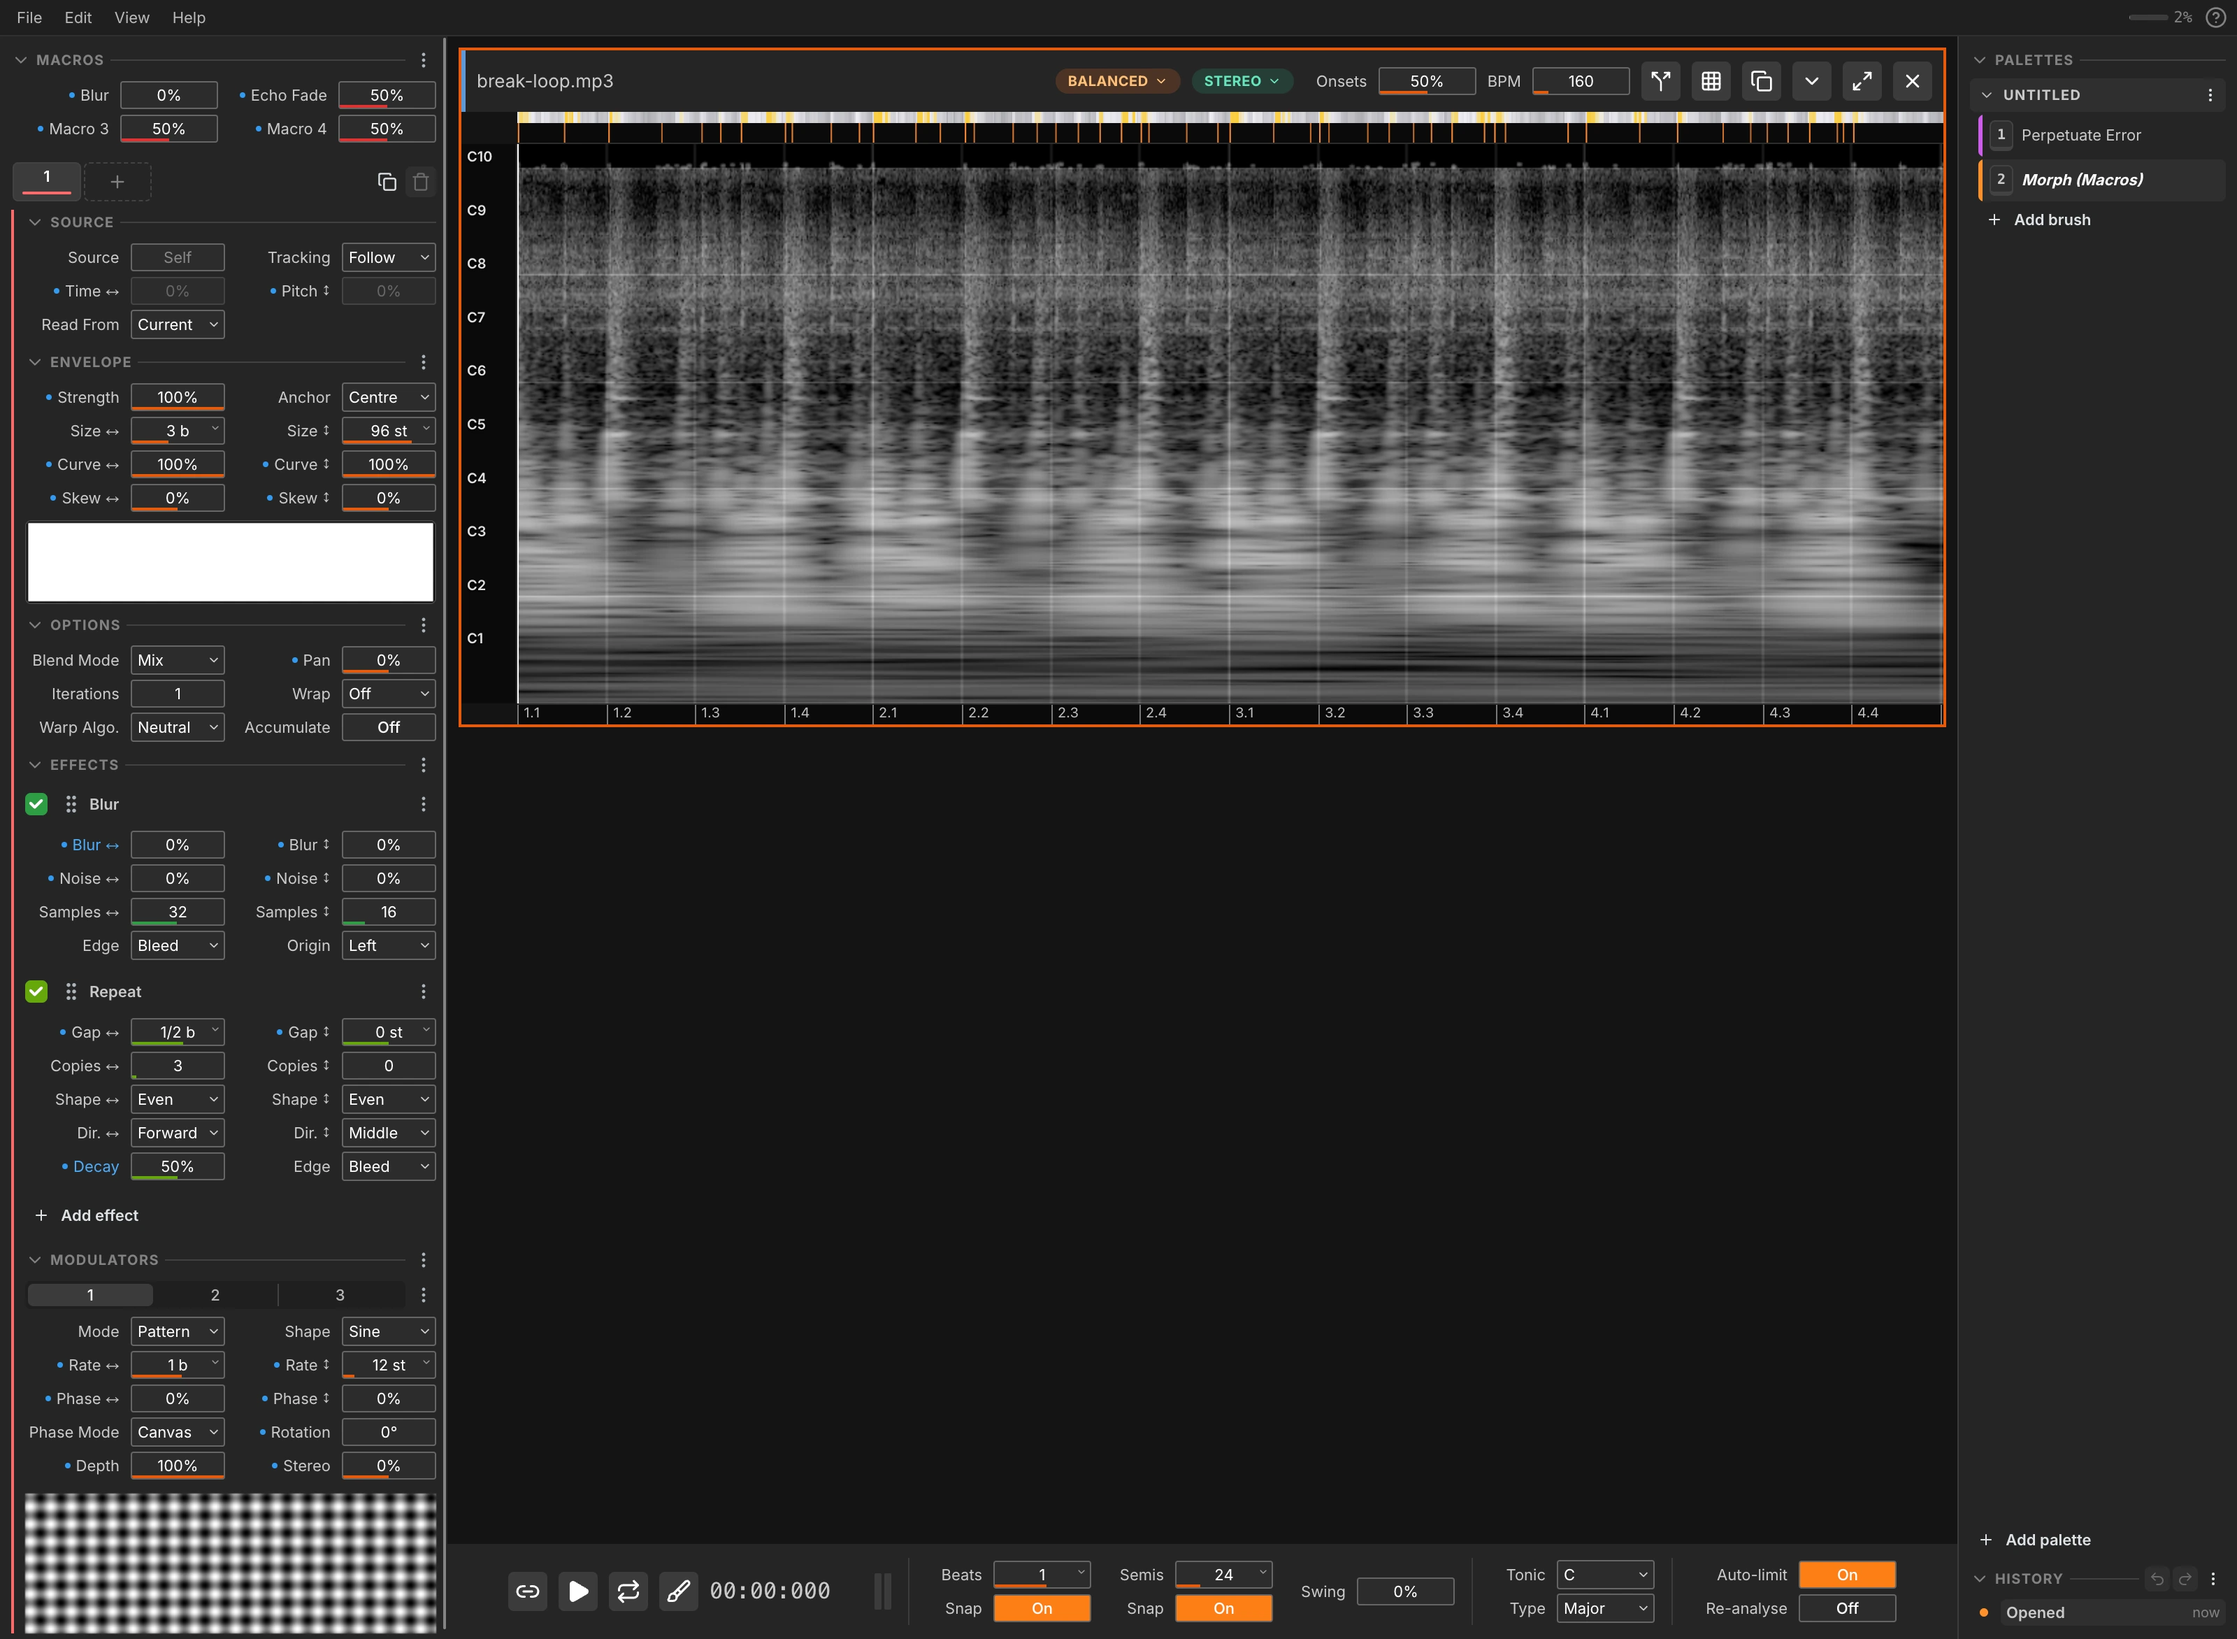
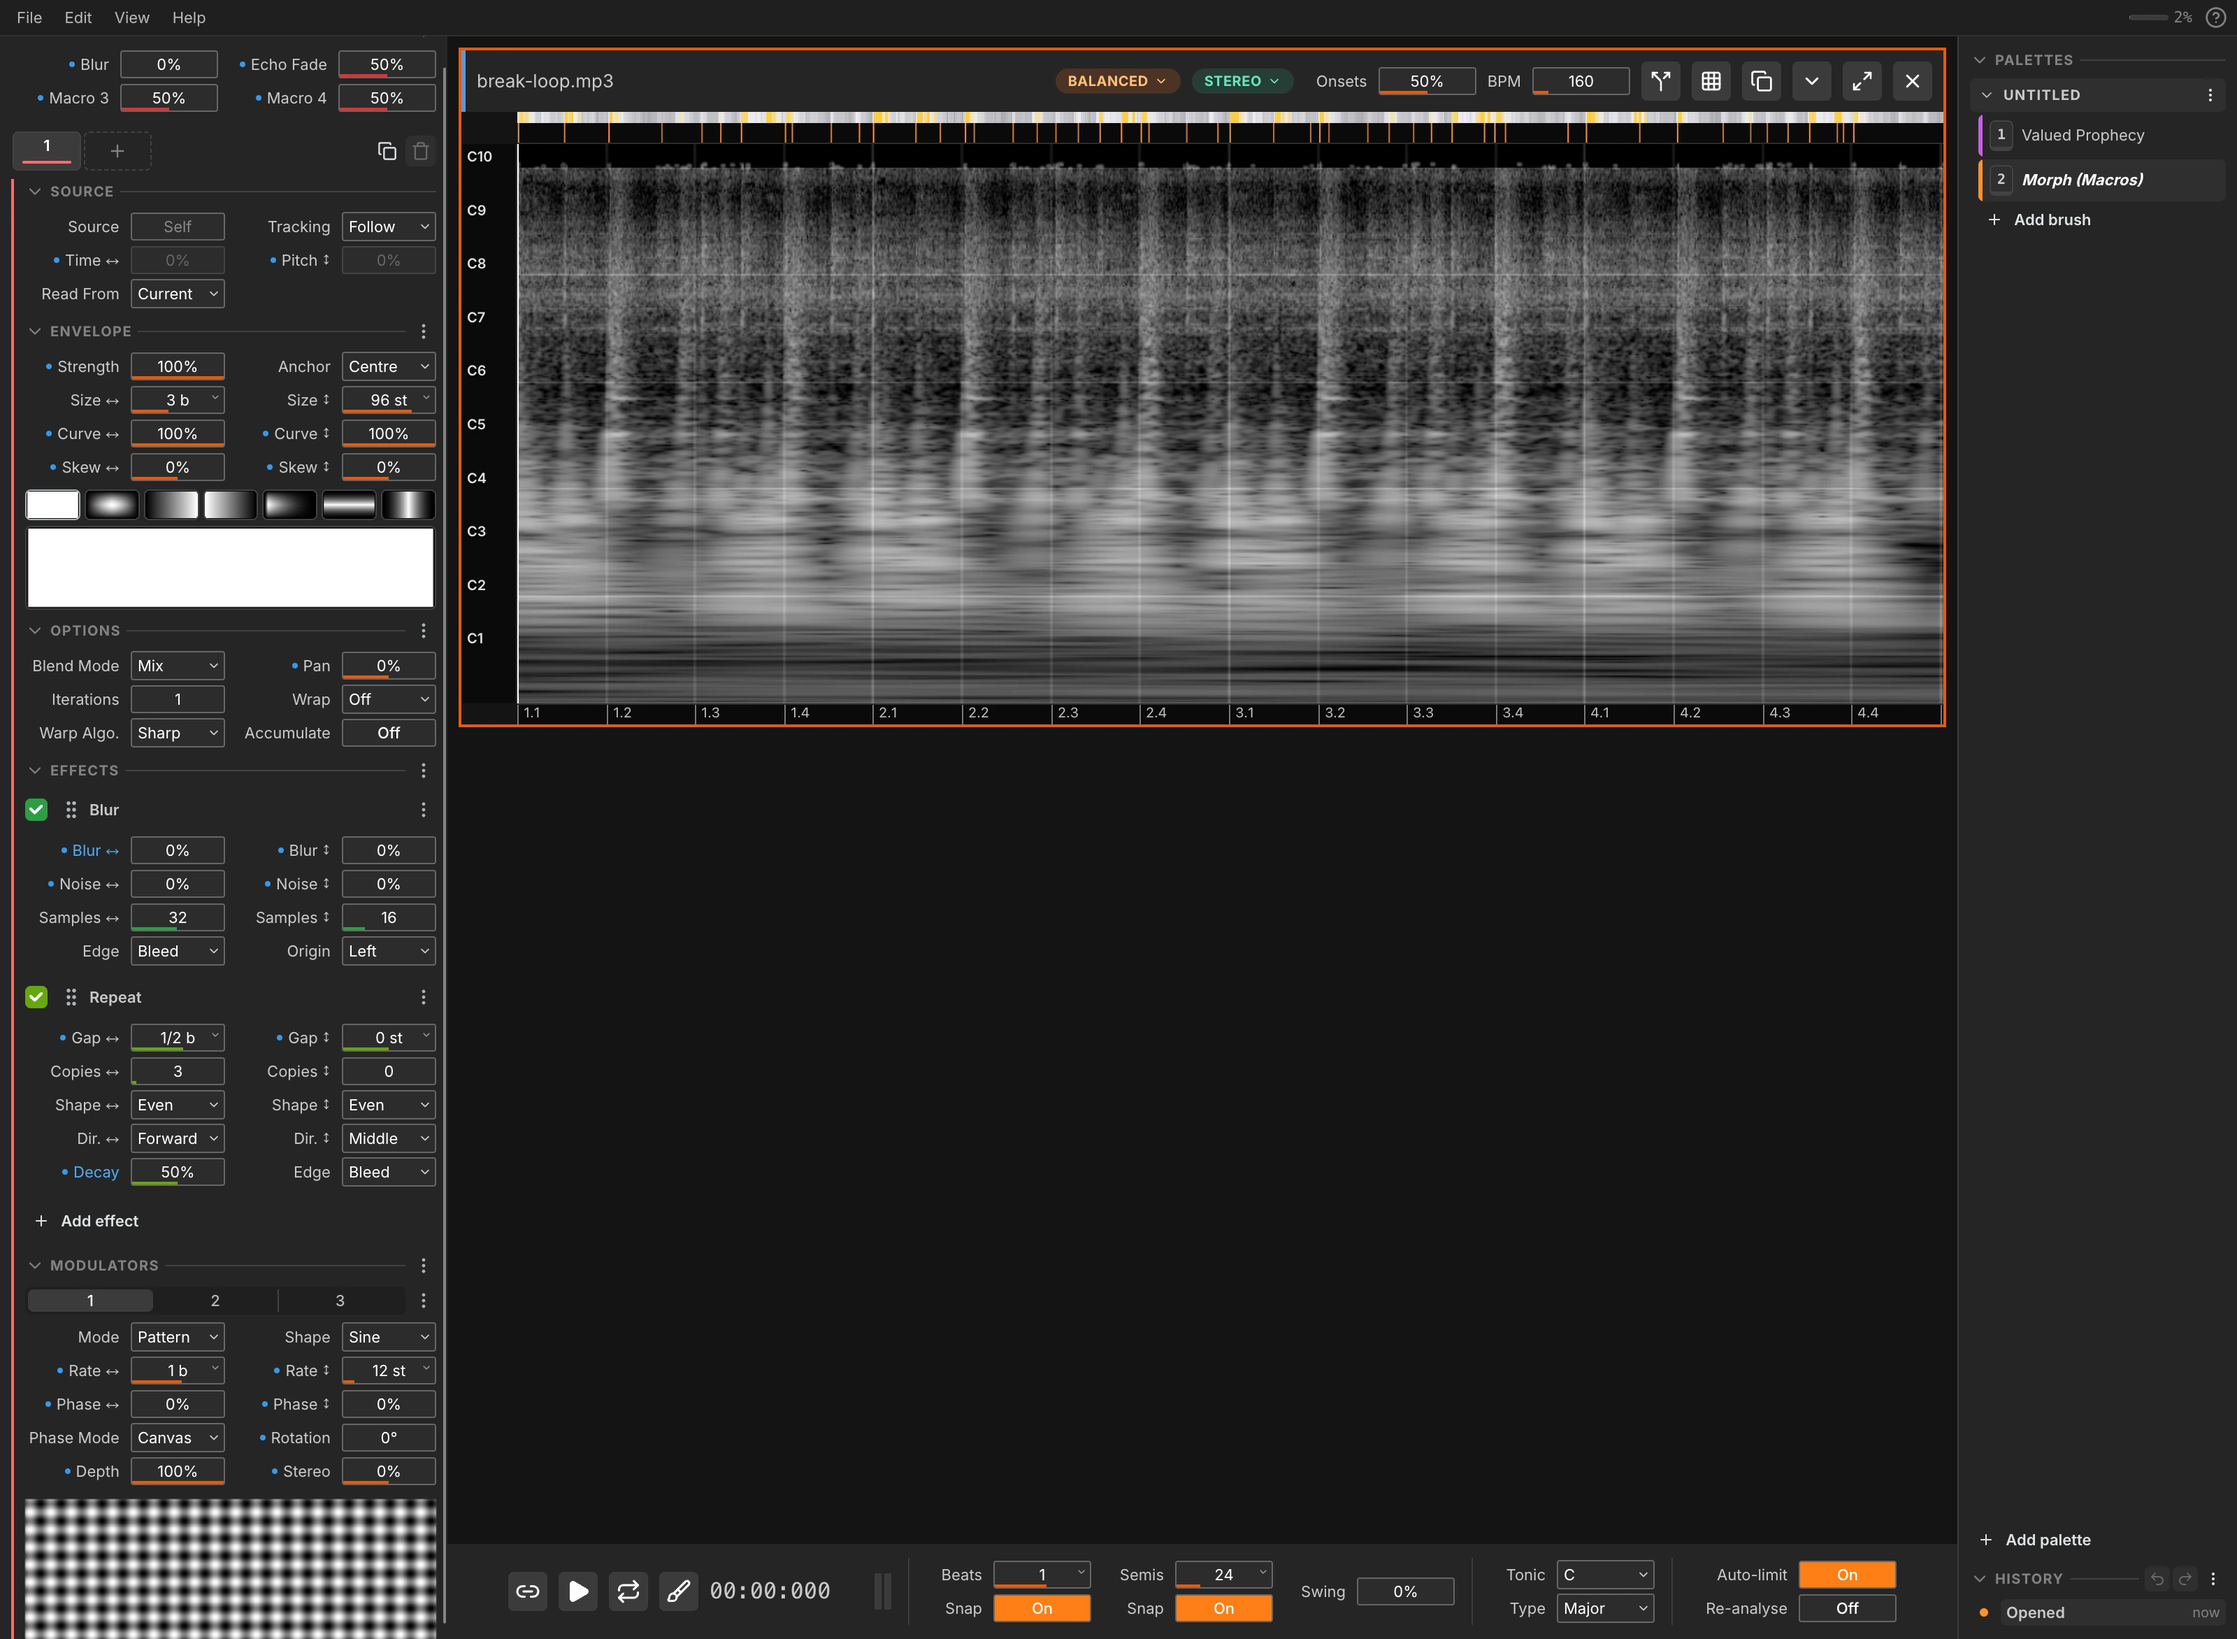
✨ (warp): name the algorithms for the sound and explain them in the picker
Neutral and Neutralish become Sharp and Soft, Percussive becomes Locked,
and the picker groups them under Natural and Coloured with a line each.

diff --git a/src/renderer/src/components/controls/select-control.tsx b/src/renderer/src/components/controls/select-control.tsx
@@ -1,7 +1,13 @@
-import { Group, Select } from "@mantine/core";
+import { Group, Select, Text } from "@mantine/core";
 import { CONTROL_ROW_GAP, CONTROL_ROW_HEIGHT, VALUE_WIDTH } from "@renderer/lib/ui-density";
-import { ChevronDown } from "lucide-react";
+import { Check, ChevronDown } from "lucide-react";
 import { ReactNode, useRef } from "react";
+
+const DESCRIBED_DROPDOWN_WIDTH = 320;
+const PLAIN_DROPDOWN_WIDTH = 120;
+const DESCRIBED_DROPDOWN_HEIGHT = 340;
+/** Tick, label and line each hold their own column so the rows read as a table. */
+const DESCRIBED_OPTION_COLUMNS = "11px 54px 1fr";
 
 export const SelectControl = <T,>({
   labelComponent,
@@ -13,7 +19,7 @@ export const SelectControl = <T,>({
 }: {
   labelComponent: ReactNode;
   value: T;
-  options: readonly { value: T; label: string }[];
+  options: readonly { value: T; label: string; group?: string; description?: string }[];
   setValue: (value: T) => void;
   labelWidth?: number | string;
   color?: string;
@@ -31,6 +37,23 @@ export const SelectControl = <T,>({
     inputRef.current?.blur();
   };
 
+  const descriptions = new Map(
+    options.filter((o) => o.description).map((o) => [String(o.value), o.description as string]),
+  );
+
+  // Options carrying a group name render as headed sections, in the order the
+  // groups first appear; ungrouped lists stay a flat item list.
+  const items = options.map((o) => ({ value: String(o.value), label: o.label }));
+  const groups: { group: string; items: typeof items }[] = [];
+  for (const option of options) {
+    if (!option.group) continue;
+    const item = { value: String(option.value), label: option.label };
+    const existing = groups.find((g) => g.group === option.group);
+    if (existing) existing.items.push(item);
+    else groups.push({ group: option.group, items: [item] });
+  }
+  const data = options.length > 0 && options.every((o) => o.group) ? groups : items;
+
   return (
     <Group gap={CONTROL_ROW_GAP} wrap="nowrap" h={CONTROL_ROW_HEIGHT}>
       {labelComponent}
@@ -45,11 +68,52 @@ export const SelectControl = <T,>({
           backgroundColor: "#2c2c2c",
         }}
         w={VALUE_WIDTH}
-        data={options.map((o) => ({ value: String(o.value), label: o.label }))}
+        data={data}
         value={String(value)}
         onChange={handleChange}
         scrollAreaProps={{ type: "always" }}
-        comboboxProps={{ width: 120, zIndex: dropdownZIndex }}
+        maxDropdownHeight={descriptions.size > 0 ? DESCRIBED_DROPDOWN_HEIGHT : undefined}
+        comboboxProps={{
+          width: descriptions.size > 0 ? DESCRIBED_DROPDOWN_WIDTH : PLAIN_DROPDOWN_WIDTH,
+          position: "bottom-start",
+          zIndex: dropdownZIndex,
+        }}
+        styles={
+          descriptions.size > 0
+            ? {
+                dropdown: { padding: 3 },
+                option: { paddingBlock: 4, paddingInline: 6, borderRadius: 2 },
+                groupLabel: {
+                  fontSize: 9,
+                  letterSpacing: "0.08em",
+                  textTransform: "uppercase",
+                  paddingInline: 6,
+                },
+              }
+            : undefined
+        }
+        renderOption={
+          descriptions.size > 0
+            ? ({ option, checked }) => (
+                <div
+                  style={{
+                    display: "grid",
+                    gridTemplateColumns: DESCRIBED_OPTION_COLUMNS,
+                    columnGap: 6,
+                    alignItems: "baseline",
+                  }}
+                >
+                  <div style={{ alignSelf: "center", lineHeight: 0 }}>{checked && <Check size={9} />}</div>
+                  <Text size="xs" style={{ lineHeight: 1.5 }}>
+                    {option.label}
+                  </Text>
+                  <Text size="xs" c="dimmed" style={{ fontSize: 10, lineHeight: 1.5 }}>
+                    {descriptions.get(option.value)}
+                  </Text>
+                </div>
+              )
+            : undefined
+        }
         rightSectionWidth={12}
         rightSection={<ChevronDown size={10} color="var(--mantine-color-text)" />}
       />

diff --git a/src/renderer/src/lib/constants.ts b/src/renderer/src/lib/constants.ts
@@ -265,11 +265,36 @@ export const NUM_CONTEXTUAL_MOD_SOURCES = CONTEXTUAL_MOD_SOURCES.length;
 export const NEUTRAL_ALGORITHM = 6;
 
 export const ALGORITHMS = [
-  { value: NEUTRAL_ALGORITHM, label: "Neutral" },
-  { value: 3, label: "Neutralish" },
-  { value: 2, label: "Percussive" },
-  { value: 0, label: "Flangey" },
-  { value: 1, label: "Noisey" },
+  {
+    value: NEUTRAL_ALGORITHM,
+    label: "Sharp",
+    group: "Natural",
+    description: "Default. Best on drums and most sounds.",
+  },
+  {
+    value: 3,
+    label: "Soft",
+    group: "Natural",
+    description: "Best on sustained, non-percussive sounds.",
+  },
+  {
+    value: 2,
+    label: "Locked",
+    group: "Coloured",
+    description: "Hard and robotic, pinned in place.",
+  },
+  {
+    value: 0,
+    label: "Flangey",
+    group: "Coloured",
+    description: "Hollow and metallic, like a comb filter.",
+  },
+  {
+    value: 1,
+    label: "Noisey",
+    group: "Coloured",
+    description: "Diffuse and breathy, edges blurred away.",
+  },
 ];
 
 const [HUE_GRAPE, HUE_RED, , HUE_GREEN, HUE_VIOLET, HUE_CYAN, HUE_PINK, HUE_ORANGE, HUE_INDIGO, HUE_TEAL] = BASE_HUES;

diff --git a/src/renderer/src/parameters.ts b/src/renderer/src/parameters.ts
@@ -75,7 +75,7 @@ export interface StringParameter extends ParameterBase {
 export interface OptionsParameter<T = any> extends ParameterBase {
   kind: "options";
   default: T;
-  options: { value: T; label: string }[];
+  options: { value: T; label: string; group?: string; description?: string }[];
 }
 
 export interface FileParameter extends ParameterBase {

diff --git a/docs/manual.md b/docs/manual.md
@@ -312,15 +312,15 @@ The brush envelope decides where the stroke deposits energy and how much.
 
 ### Warp Algorithms
 
-Moving sound in time or pitch means rebuilding it, and each option colours the result differently. Pick by ear:
+Moving sound in time or pitch means rebuilding it, and each option colours the result differently. The picker splits them in two: the **Natural** pair rebuilds the sound as it was, and the **Coloured** three rebuild it into something else. Pick by ear:
 
-| Algorithm      | Sounds like                                                | Reach for it on                                          |
-| -------------- | ---------------------------------------------------------- | -------------------------------------------------------- |
-| **Neutral**    | Clean and faithful. Attacks stay sharp, notes stay steady. | Anything. Start here and only change if you want colour. |
-| **Neutralish** | Neutral with a slightly softer edge.                       | Sustained material that Neutral makes sound too tight.   |
-| **Percussive** | Hard and snappy, attacks pushed forward.                   | Drums, and anything that needs to snap.                  |
-| **Flangey**    | Hollow and metallic, like a comb filter.                   | Adding a phasey, robotic character on purpose.           |
-| **Noisey**     | Diffuse and breathy, edges blurred away.                   | Pads, textures, and turning a sound into a wash.         |
+| Algorithm   | Group    | Sounds like                                                | Reach for it on                                          |
+| ----------- | -------- | ---------------------------------------------------------- | -------------------------------------------------------- |
+| **Sharp**   | Natural  | Clean and faithful. Attacks stay sharp, notes stay steady. | Anything. This is the default, and it holds up on drums. |
+| **Soft**    | Natural  | Faithful with a slightly softer edge.                      | Sustained material that Sharp makes sound too tight.     |
+| **Locked**  | Coloured | Hard and robotic, pinned to the spot you paint into.       | Bending a move into a machine-like rhythm.               |
+| **Flangey** | Coloured | Hollow and metallic, like a comb filter.                   | Adding a phasey, robotic character on purpose.           |
+| **Noisey**  | Coloured | Diffuse and breathy, edges blurred away.                   | Pads, textures, and turning a sound into a wash.         |
 
 ### Blend Modes
 
@@ -797,14 +797,14 @@ Onsets show up in three places:
 - **Onsets sensitivity** – the **Onsets** control in the file header. It sets how far down this file's own level range a hit still counts: **0%** keeps only the loudest, **100%** keeps everything the detector found. The range is per file, so the same percentage means something comparable on a quiet pad and a hot drum loop. It applies to that file's path, so it survives closing and reopening.
 - **Onset snapping** – set the time grid (**Beats**) to **Onsets** in the transport bar. Strokes then snap to detected hits instead of beat divisions.
 
-Onsets also drive the [warp algorithms](#warp-algorithms). **Neutral** re-anchors phase at each detected onset when it moves audio, which is what keeps a moved drum hit cracking instead of smearing into pre-echo.
+Onsets also drive the [warp algorithms](#warp-algorithms). **Sharp** re-anchors phase at each detected onset when it moves audio, which is what keeps a moved drum hit cracking instead of smearing into pre-echo.
 
 Onsets are recomputed around a stroke after you paint, so they track your edits.
 
 **Hints**
 
 - Snap to onsets with **Anchor** on **Corner**, and a stroke lands exactly on a transient rather than near it.
-- Lower the sensitivity if a busy file is being over-anchored by Neutral, and raise it if quiet hits are smearing.
+- Lower the sensitivity if a busy file is being over-anchored by Sharp, and raise it if quiet hits are smearing.
 
 ### The Level Strip
 
